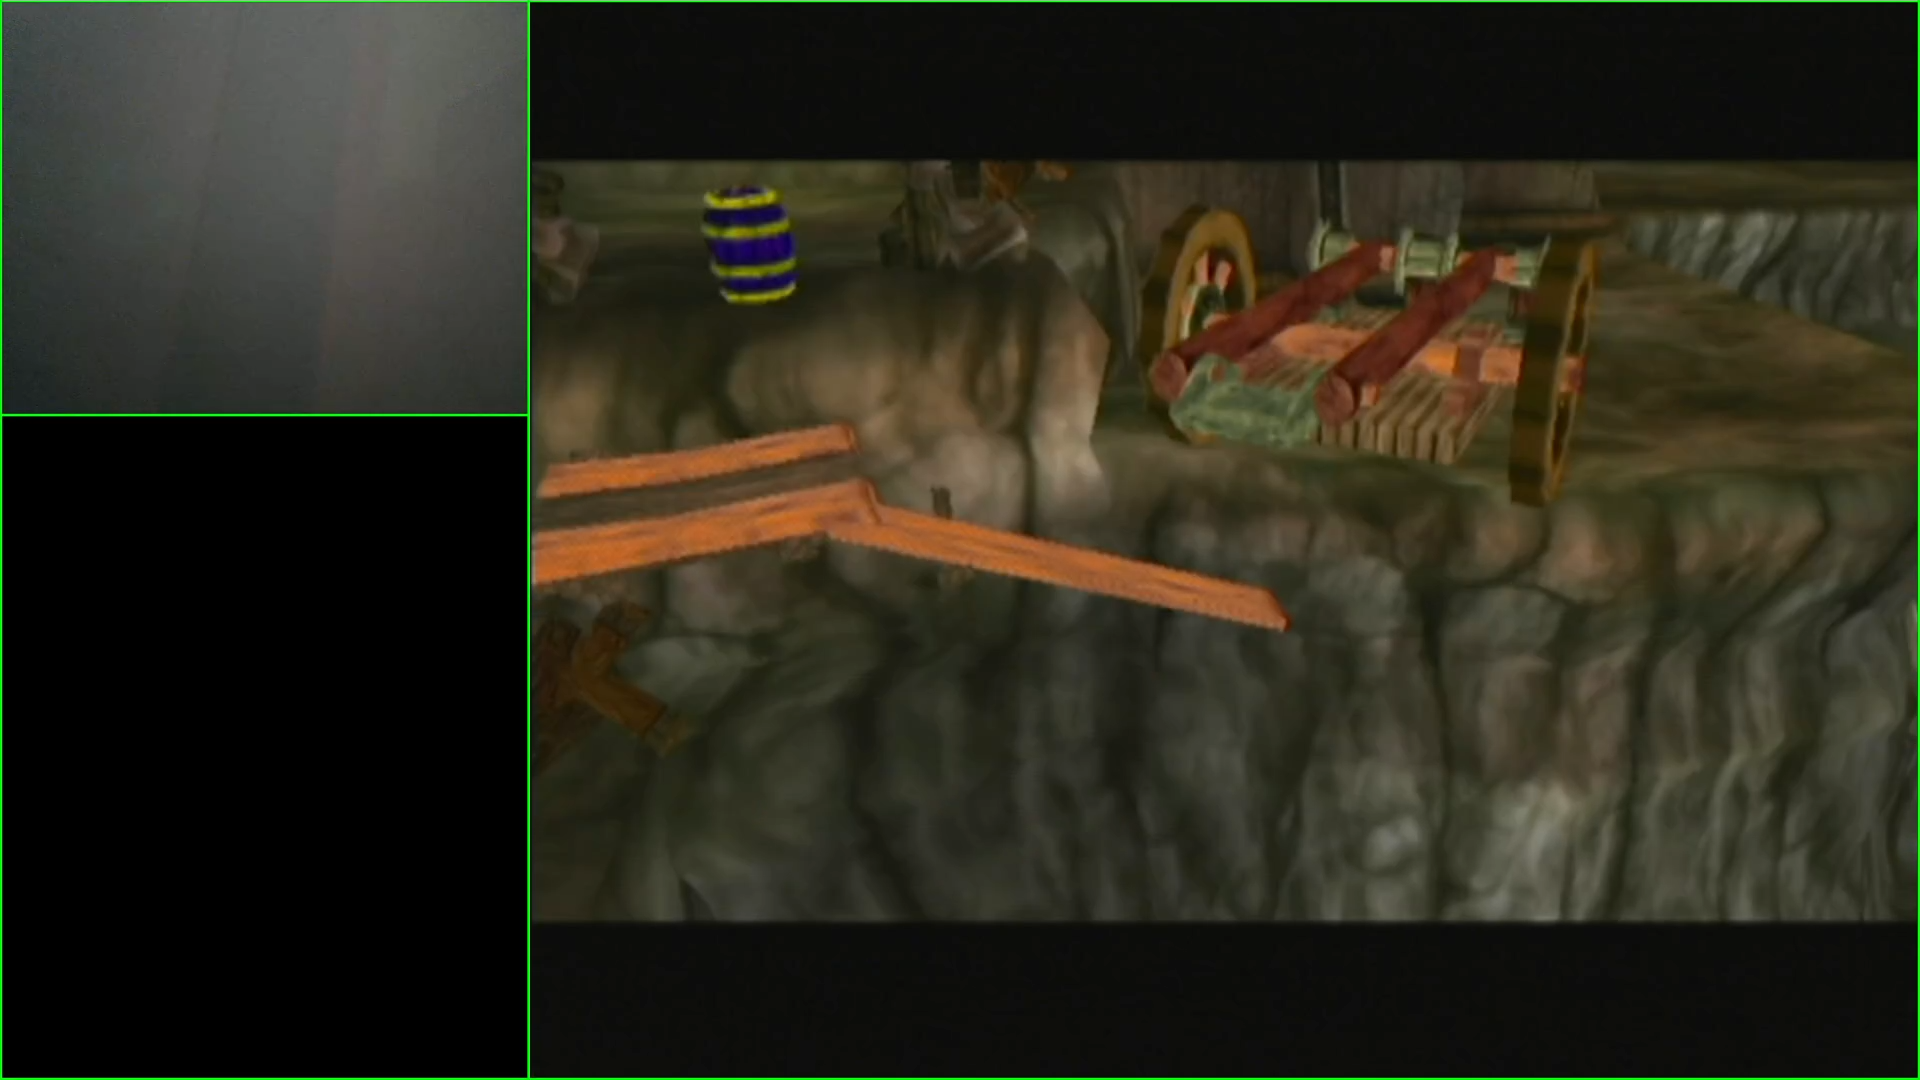
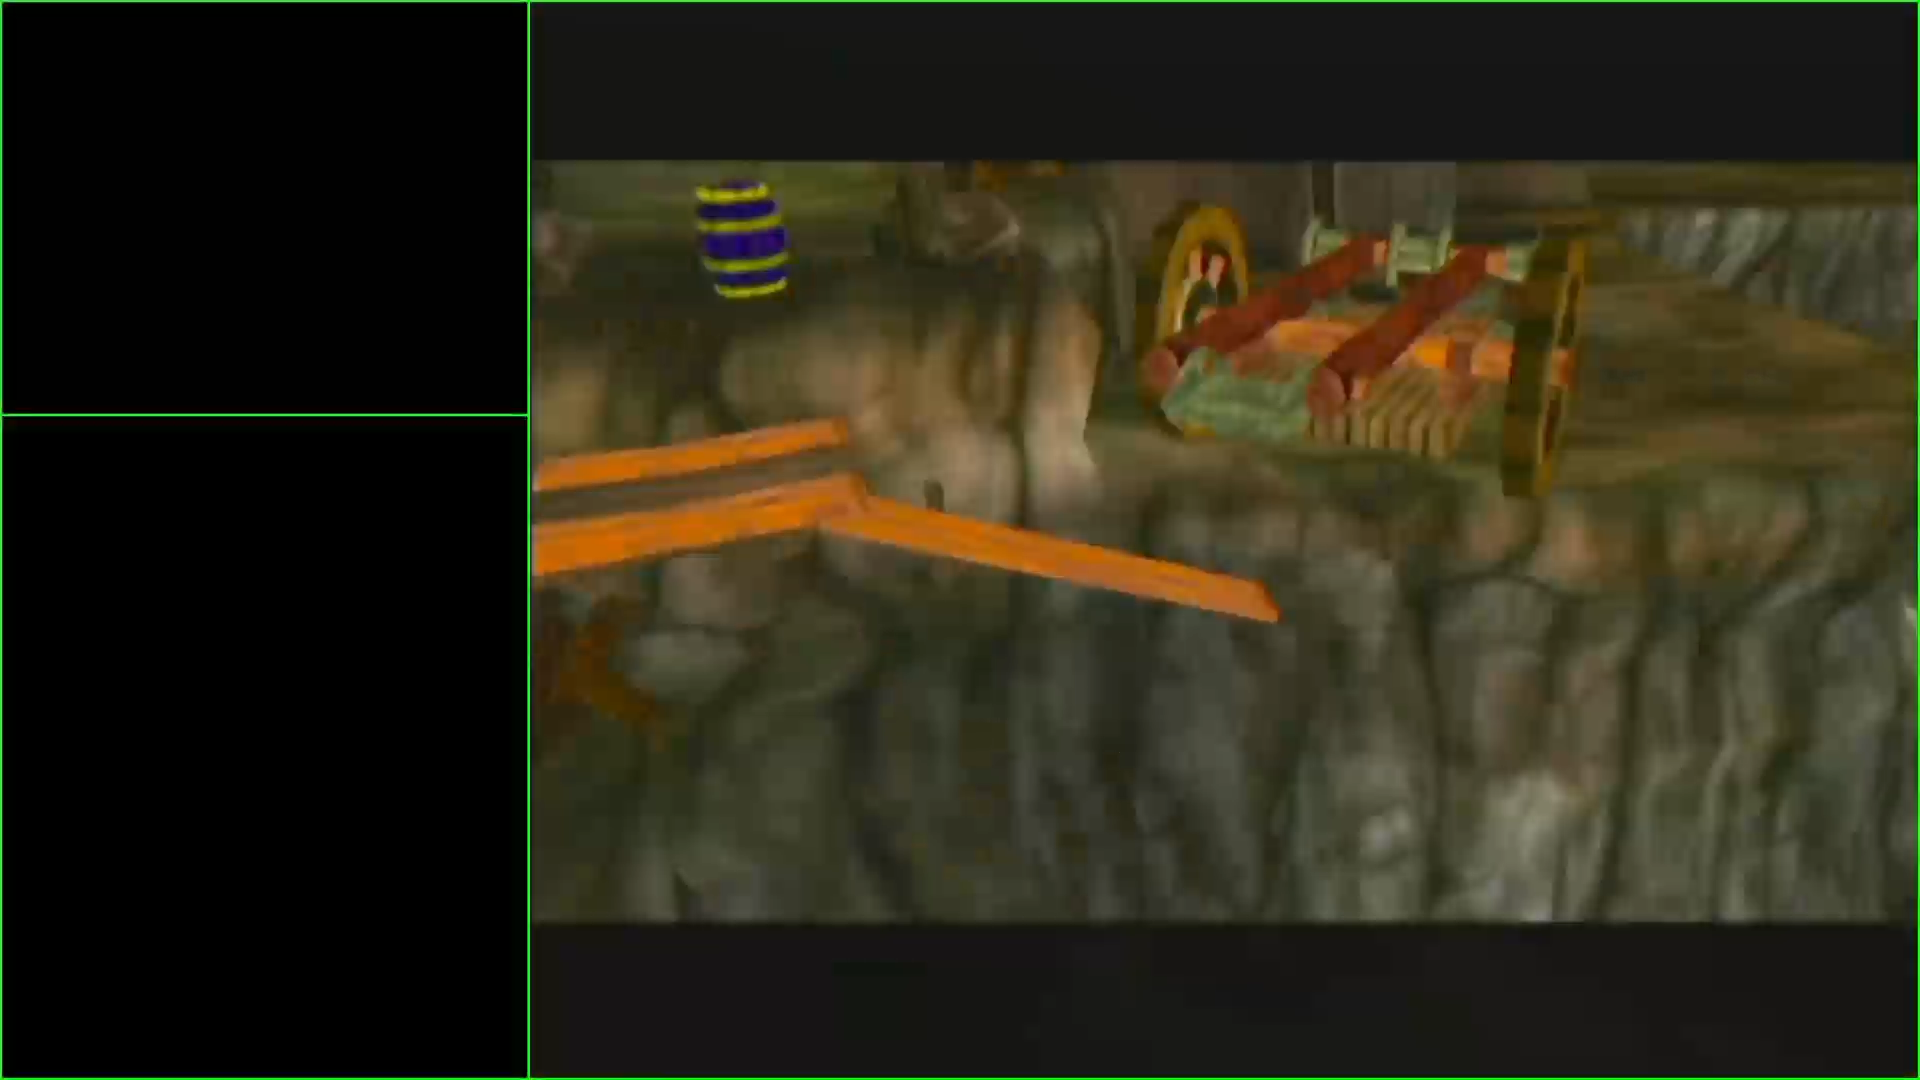
updated comparison and some other things with thief split

diff --git a/Hobsplit/src/Splits/SplitManager.cs b/Hobsplit/src/Splits/SplitManager.cs
@@ -2,6 +2,7 @@
 using System.Drawing;
 using System.IO;
 using System.Media;
+using System.Threading.Tasks;
 using System.Timers;
 using Shipwreck.Phash;
 
@@ -113,7 +114,7 @@ namespace Hobsplit
                     {
                         LivesplitManager.Unsplit();
                         LivesplitManager.Split();
-                        PlayThiefSound();
+                        Task.Run(() => PlayThiefSound(true));
                     }
                 }
             }
@@ -181,7 +182,7 @@ namespace Hobsplit
                     if(splitIndex == (int)SplitIndex.AWWPRE && Settings.Default.useThief)
                     {
                         IncrementSplitIndex(2);
-                        PlayThiefSound();
+                        Task.Run(() => PlayThiefSound(true));
                     }
                     // End of run
                     else if(splitIndex == (int)SplitIndex.DONE)
@@ -235,8 +236,14 @@ namespace Hobsplit
             }
         }
 
-        public static void PlayThiefSound()
+        public static async void PlayThiefSound(bool delay)
         {
+            if (delay) 
+            { 
+                if (splitIndex != 12) return;
+                await Task.Delay(73 * 1000);
+            }
+
             using (SoundPlayer player = new SoundPlayer(Environment.CurrentDirectory + "\\Assets\\Audio\\thief.wav"))
             {
                 player.Play();

diff --git a/Hobsplit/src/Capture/CaptureManager.cs b/Hobsplit/src/Capture/CaptureManager.cs
@@ -112,15 +112,8 @@ namespace Hobsplit
 
             frame = frame.Resize();
 
-            if (SplitManager.GetSplitState() == SplitState.WAITING)
-            {
-                frame = frame.Crop(Constants.startCrop);
-                frame = frame.MakeGrayscale3();
-            }
+            if (SplitManager.GetSplitState() == SplitState.WAITING) frame = frame.Crop(Constants.startCrop);
             else frame = frame.Crop(Constants.crop);
-
-            SplitManager.GetSplitDataArray()[1].GetFinalImage().Save("swag2.bmp");
-            frame.Save("swag.bmp");
 
             Digest digest = await Task.Factory.StartNew(() => ImagePhash.ComputeDigest(frame.ToLuminanceImage()));
             frame.Dispose();

diff --git a/Hobsplit/src/UI/User Controls/SettingsControl.xaml.cs b/Hobsplit/src/UI/User Controls/SettingsControl.xaml.cs
@@ -39,6 +39,6 @@ namespace Hobsplit
 
         private void Ready_Sound_Toggle_Checked(object sender, RoutedEventArgs e) { if (!startup) SplitManager.PlayReadySound(); }
 
-        private void Thief_Sound_Toggle_Checked(object sender, RoutedEventArgs e) { if (!startup) SplitManager.PlayThiefSound(); }
+        private void Thief_Sound_Toggle_Checked(object sender, RoutedEventArgs e) { if (!startup) SplitManager.PlayThiefSound(false); }
     }
 }

diff --git a/Hobsplit/src/Util/Constants.cs b/Hobsplit/src/Util/Constants.cs
@@ -7,7 +7,7 @@ namespace Hobsplit
         public const int comparisonWidth = 160;
         public const int comparisonHeight = 120;
 
-        public static readonly Rectangle crop = new Rectangle(30, 32, 60, 50);
+        public static readonly Rectangle crop = new Rectangle(20, 32, 55, 50);
         public static readonly Rectangle startCrop = new Rectangle(35, 45, 45, 70);
 
         public static readonly string[] LevelNames =

diff --git a/Hobsplit/src/UI/Windows/MainWindow.xaml.cs b/Hobsplit/src/UI/Windows/MainWindow.xaml.cs
@@ -156,6 +156,7 @@ namespace Hobsplit
                     if (SplitManager.GetSplitIndex() == (int)SplitIndex.THIEF) return;
                     if (segmentTimer.IsRunning) 
                     {
+                        if(SplitManager.GetSplitIndex() == (int)SplitIndex.DONE) segmentTimer.Stop();
                         segmentTimer.Restart();
                         break;
                     }

diff --git a/Hobsplit/src/Splits/SplitData.cs b/Hobsplit/src/Splits/SplitData.cs
@@ -78,7 +78,6 @@ namespace Hobsplit
             Bitmap final = originalImgWorkable.Clone() as Bitmap;
             final = final.Resize();
             final = final.Crop(removeColor ? Constants.startCrop : Constants.crop);
-            if (removeColor) final = final.MakeGrayscale3();
             return final;
         }
 

diff --git a/Hobsplit/src/Util/ImageProcessor.cs b/Hobsplit/src/Util/ImageProcessor.cs
@@ -89,7 +89,7 @@ namespace Hobsplit
 
         public static Bitmap MakeGrayscale3(this Bitmap bitmap)
         {
-            const float limit = 0.15f;
+            const float limit = 0.2f;
             for (int i = 0; i < bitmap.Width; i++)
             {
                 for (int j = 0; j < bitmap.Height; j++)
